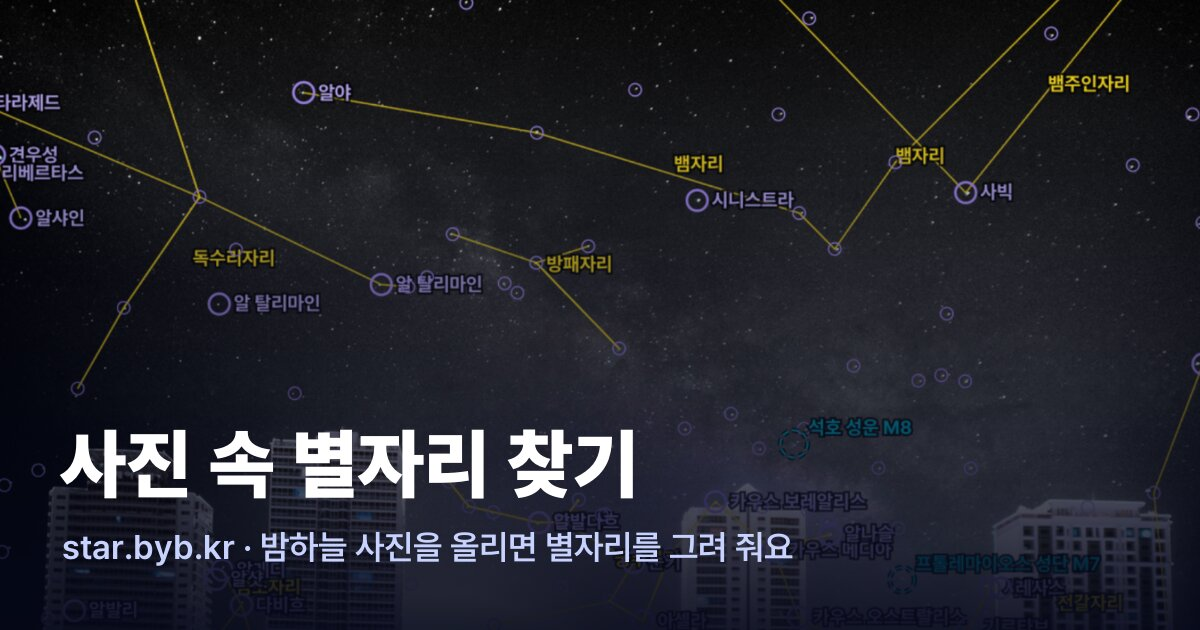
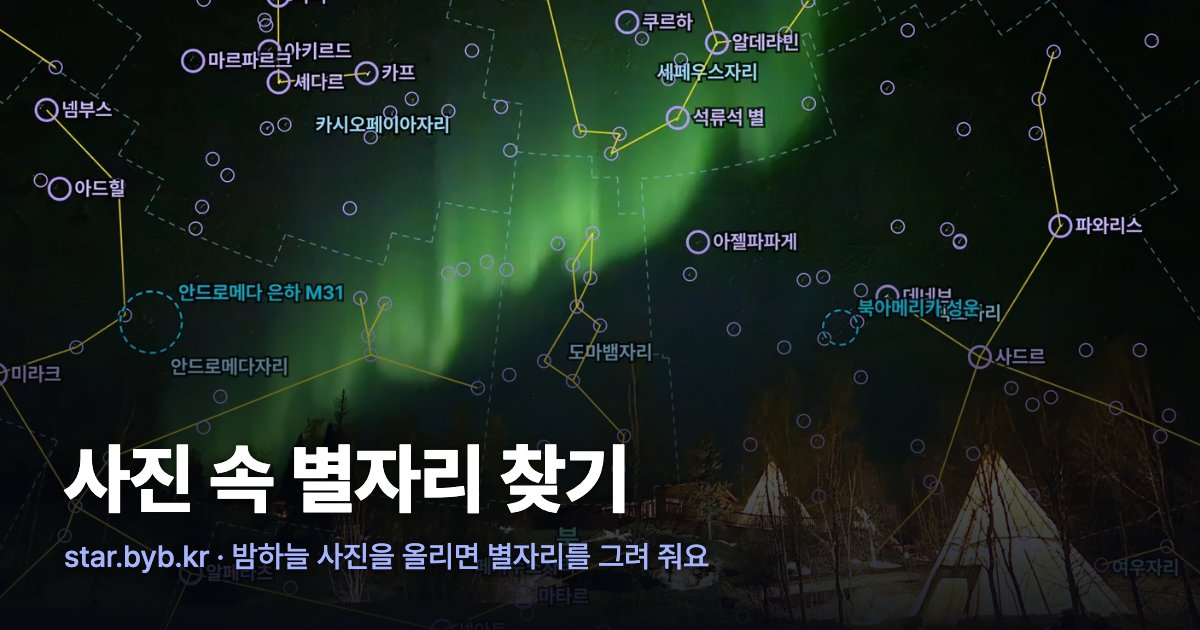
첫 화면 그림·공유 미리보기·샘플 1번을 만든 사람의 옐로나이프 오로라 사진으로 — 석촌호수 은하수(별하늘지기 사진) 대신. 0.2초에 확신(log-odds 44)하고 카시오페이아·안드로메다·백조자리가 그려진다
- 사진은 jpegtran -copy none으로 EXIF(GPS 포함)만 지워 화질 그대로 싣는다
- 촬영 시각(2024-04-01 23:24, -06:00)과 장소(옐로나이프 근처, 0.1° 단위)는 shotTime 기록으로: 해·달·행성과 어디서 찍었을까가 나온다
- 알려진 정답을 넣고, 샘플 회귀 테스트의 자동으로 풀려야 하는 목록에 더한다
- 석촌호수 그림 파일은 발표 자료 V3가 아직 써서 남긴다

diff --git a/src/app/page.tsx b/src/app/page.tsx
@@ -35,15 +35,15 @@ export default function Page() {
         >
           {/* eslint-disable-next-line @next/next/no-img-element -- 정적 내보내기라 next/image 최적화를 쓰지 않는다 */}
           <img
-            src="/home/solved-milky-way.webp"
-            alt="석촌호수 위 여름 은하수 사진에 궁수자리·전갈자리·독수리자리 선과 별 이름이 그려진 모습"
-            width={1200}
-            height={801}
+            src="/home/solved-aurora.webp"
+            alt="캐나다 옐로나이프의 오로라 사진에 카시오페이아자리·안드로메다자리·백조자리 선과 별 이름이 그려진 모습"
+            width={1600}
+            height={738}
             className="block h-auto w-full"
           />
           <figcaption className="bg-base-200/80 px-4 py-2 text-xs opacity-80">
-            서울 석촌호수에서 찍은 여름 은하수. 건물 사이로 궁수자리·전갈자리가
-            보여요.
+            캐나다 옐로나이프에서 찍은 오로라. 카시오페이아자리와 안드로메다
+            은하, 백조자리가 보여요.
           </figcaption>
         </figure>
 

diff --git a/src/services/samples.ts b/src/services/samples.ts
@@ -52,8 +52,16 @@ const commons = (file: string) =>
 // 북두칠성(big-dipper.jpg)·석촌호수 은하수·오리온(cafe-orion.jpg)·출처 모를 사진(google-unknown.jpg)은
 // 바깥에서 출처를 밝히지 않고 가져온 사진이라 예시로 보이지 않는다 (회귀 테스트는 public/samples의 파일을 그대로 읽는다).
 // 빈자리는 위키미디어 공용의 자유 이용 사진으로 채웠다: 사이트에서 확신으로 풀리고, 땅 위 물체가 함께 찍힌 사진.
-// 맨 앞은 가장 빨리(약 0.03초) 확신하는 망루와 논.
+// 맨 앞은 만든 사람(Brice)이 2024년 버즈홀리데이 때 캐나다 옐로나이프에서 찍은 오로라 (0.2초에 확신, 첫 화면 그림과 같은 사진).
+// EXIF(GPS 포함)는 jpegtran -copy none으로 지웠다. 촬영 시각·장소는 shotTime.ts에 대략으로 적었다.
 const samples: Sample[] = [
+  sample(
+    "20240401-brice-yellowknife-aurora.jpg",
+    "옐로나이프 오로라",
+    "2024년 4월",
+    4000,
+    1848,
+  ),
   sample(
     "iau-watchtower-orion.jpg",
     "망루와 논",

diff --git a/src/plate-solver/sampleAnswers.ts b/src/plate-solver/sampleAnswers.ts
@@ -126,6 +126,14 @@ const byFilename: Record<string, SampleAnswer> = {
     fovDeg: 16.8,
     name: "오리온자리",
   },
+  // 옐로나이프 오로라: 카시오페이아·세페우스·안드로메다(M31)·백조(데네브·사드르), 가운데 도마뱀자리.
+  // 앱과 같은 풀이(8초)로 0.2초에 확신 (log-odds 44, 2026-10-27)
+  "20240401-brice-yellowknife-aurora.jpg": {
+    centerRaDeg: 335.3,
+    centerDecDeg: 47.2,
+    fovDeg: 37.6,
+    name: "카시오페이아·안드로메다·백조자리",
+  },
   // 아래 열둘은 위키미디어 공용의 자유 이용 샘플(samples.ts의 credit). 앱과 같은 풀이(8초)로
   // 확신한 해(log-odds 17~80)이고, 겹친 별 이름이 사진 속 별자리와 맞는지 눈으로 확인했다.
   // 오리온 삼태성·베텔게우스·리겔, 토끼자리 (망루와 논)

diff --git a/src/plate-solver/shotTime.ts b/src/plate-solver/shotTime.ts
@@ -66,6 +66,15 @@ const SAMPLE_SHOTS: Record<string, ShotTime> = {
     source: "record",
     note: "슬랙에 올린 시각 (사이판)",
   },
+  // 원본 EXIF: 2024-04-01 23:24:15, 시간대 -06:00 (옐로나이프 서머타임). 공개 샘플이라 GPS는 지우고
+  // 장소는 0.1° 단위로만 적는다 (옐로나이프 동쪽 오로라 관측지)
+  "20240401-brice-yellowknife-aurora.jpg": {
+    local: "2024-04-01T23:24",
+    offset: "-06:00",
+    observer: { latDeg: 62.5, lonDeg: -114.2 },
+    source: "record",
+    note: "촬영 기록 (캐나다 옐로나이프)",
+  },
 };
 
 export const getSampleShot = (src?: string): ShotTime | null => {

diff --git a/src/test/real/samples.test.ts b/src/test/real/samples.test.ts
@@ -45,6 +45,7 @@ const MUST_SOLVE = [
   "20250117-carl-aurora-02.jpg",
   "20250117-carl-aurora-03.jpg",
   "20250117-carl-aurora-04.jpg",
+  "20240401-brice-yellowknife-aurora.jpg",
 ];
 
 // 정답은 알지만 아직 자동으로는 못 푸는 샘플. 풀지 못해도 되지만 틀린 해를 확신하면 안 된다.
